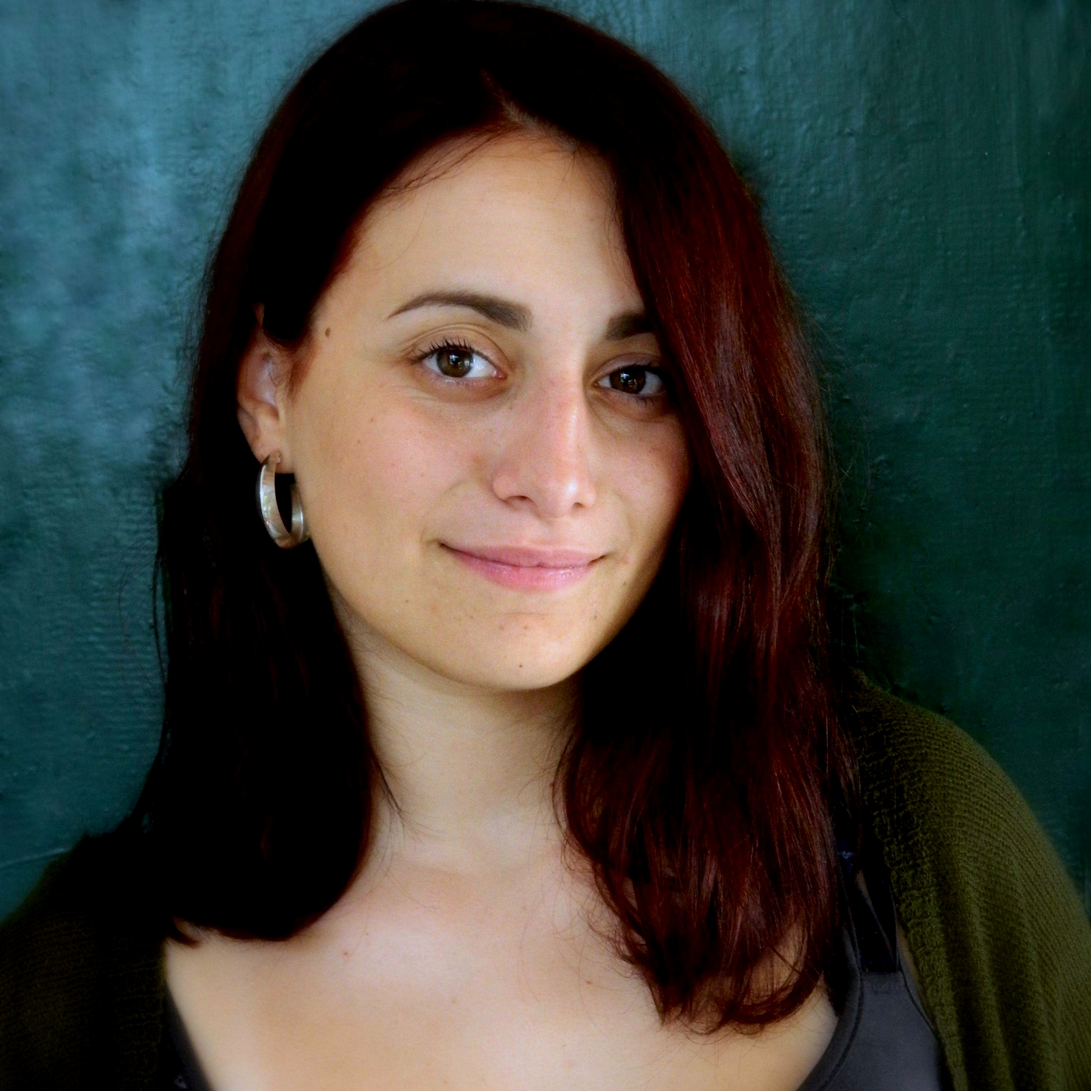
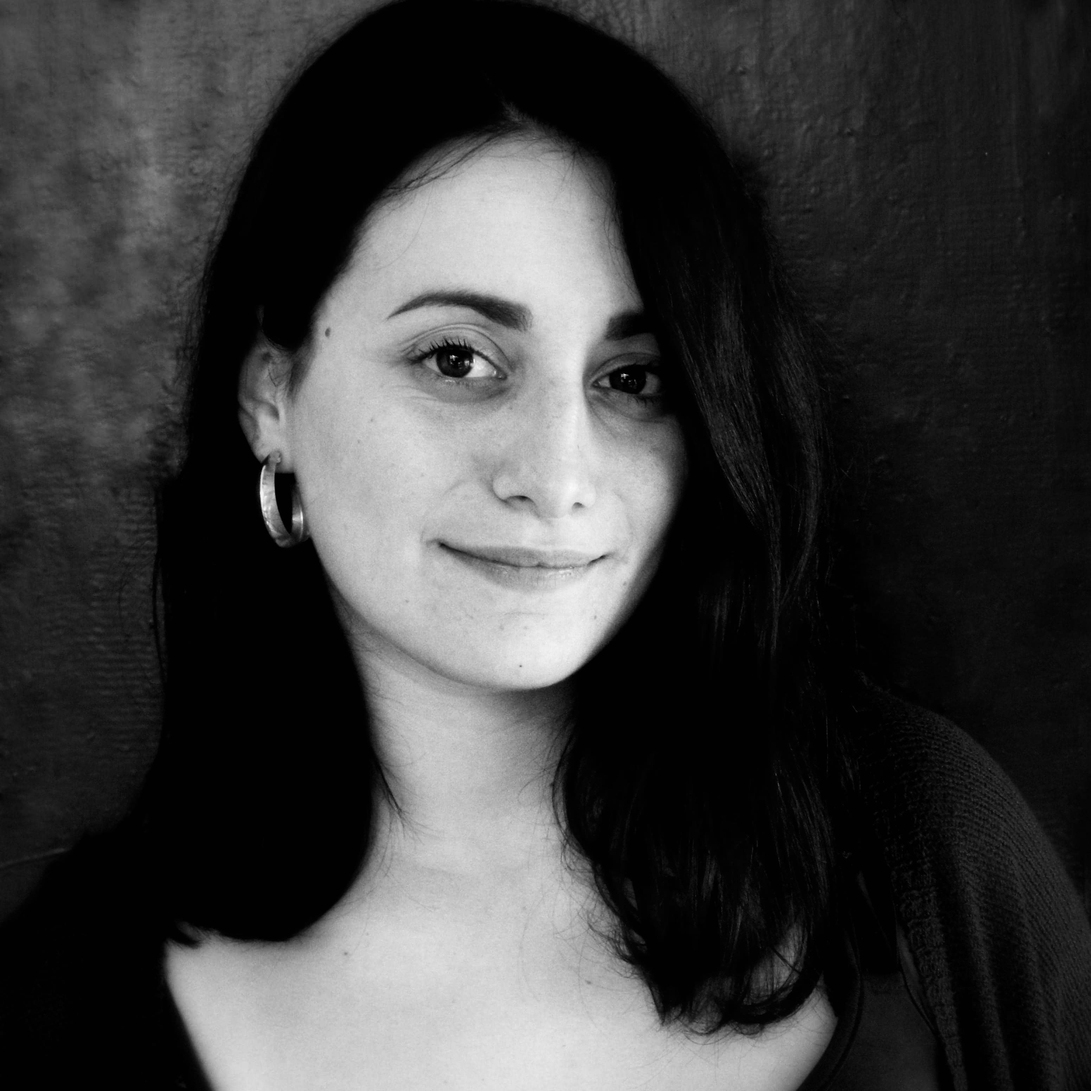
changes

diff --git a/project/annotate/index.html b/project/annotate/index.html
@@ -545,7 +545,7 @@ How can we prime humans to think of meaning mismatches that appear at a small gr
   <div class="media author-card" itemscope itemtype="http://schema.org/Person">
     
       
-      <img class="portrait mr-3" src="/authors/admin/avatar_hu30e804cf04a5c8c8df721ffd132d1d12_1583289_250x250_fill_q100_lanczos_center.jpg" itemprop="image" alt="Avatar">
+      <img class="portrait mr-3" src="/authors/admin/avatar_huf362685d3f85fc0421472c8ac9c0f119_444739_250x250_fill_q100_lanczos_center.jpg" itemprop="image" alt="Avatar">
     
 
     <div class="media-body">

diff --git a/project/detect/index.html b/project/detect/index.html
@@ -546,7 +546,7 @@ How can we draw on linguistics and translation theories studies to account for g
   <div class="media author-card" itemscope itemtype="http://schema.org/Person">
     
       
-      <img class="portrait mr-3" src="/authors/admin/avatar_hu30e804cf04a5c8c8df721ffd132d1d12_1583289_250x250_fill_q100_lanczos_center.jpg" itemprop="image" alt="Avatar">
+      <img class="portrait mr-3" src="/authors/admin/avatar_huf362685d3f85fc0421472c8ac9c0f119_444739_250x250_fill_q100_lanczos_center.jpg" itemprop="image" alt="Avatar">
     
 
     <div class="media-body">

diff --git a/project/refine/index.html b/project/refine/index.html
@@ -548,7 +548,7 @@ Can we do better? How can we improve machine translation by refining its data?</
   <div class="media author-card" itemscope itemtype="http://schema.org/Person">
     
       
-      <img class="portrait mr-3" src="/authors/admin/avatar_hu30e804cf04a5c8c8df721ffd132d1d12_1583289_250x250_fill_q100_lanczos_center.jpg" itemprop="image" alt="Avatar">
+      <img class="portrait mr-3" src="/authors/admin/avatar_huf362685d3f85fc0421472c8ac9c0f119_444739_250x250_fill_q100_lanczos_center.jpg" itemprop="image" alt="Avatar">
     
 
     <div class="media-body">

diff --git a/project/evaluate/index.html b/project/evaluate/index.html
@@ -548,7 +548,7 @@ How can we evaluate natural language generation when moving multilingual?</p>
   <div class="media author-card" itemscope itemtype="http://schema.org/Person">
     
       
-      <img class="portrait mr-3" src="/authors/admin/avatar_hu30e804cf04a5c8c8df721ffd132d1d12_1583289_250x250_fill_q100_lanczos_center.jpg" itemprop="image" alt="Avatar">
+      <img class="portrait mr-3" src="/authors/admin/avatar_huf362685d3f85fc0421472c8ac9c0f119_444739_250x250_fill_q100_lanczos_center.jpg" itemprop="image" alt="Avatar">
     
 
     <div class="media-body">

diff --git a/project/analyze/index.html b/project/analyze/index.html
@@ -549,7 +549,7 @@ How can we calibrate our assumptions to model parallel texts better?</p>
   <div class="media author-card" itemscope itemtype="http://schema.org/Person">
     
       
-      <img class="portrait mr-3" src="/authors/admin/avatar_hu30e804cf04a5c8c8df721ffd132d1d12_1583289_250x250_fill_q100_lanczos_center.jpg" itemprop="image" alt="Avatar">
+      <img class="portrait mr-3" src="/authors/admin/avatar_huf362685d3f85fc0421472c8ac9c0f119_444739_250x250_fill_q100_lanczos_center.jpg" itemprop="image" alt="Avatar">
     
 
     <div class="media-body">

diff --git a/project/xformal/index.html b/project/xformal/index.html
@@ -546,7 +546,7 @@ How well can we perform style transfer beyond English?</p>
   <div class="media author-card" itemscope itemtype="http://schema.org/Person">
     
       
-      <img class="portrait mr-3" src="/authors/admin/avatar_hu30e804cf04a5c8c8df721ffd132d1d12_1583289_250x250_fill_q100_lanczos_center.jpg" itemprop="image" alt="Avatar">
+      <img class="portrait mr-3" src="/authors/admin/avatar_huf362685d3f85fc0421472c8ac9c0f119_444739_250x250_fill_q100_lanczos_center.jpg" itemprop="image" alt="Avatar">
     
 
     <div class="media-body">

diff --git a/post/refresd/index.html b/post/refresd/index.html
@@ -648,7 +648,7 @@ Weijia Xu. Thanks all!</p>
   <div class="media author-card" itemscope itemtype="http://schema.org/Person">
     
       
-      <img class="portrait mr-3" src="/authors/admin/avatar_hu30e804cf04a5c8c8df721ffd132d1d12_1583289_250x250_fill_q100_lanczos_center.jpg" itemprop="image" alt="Avatar">
+      <img class="portrait mr-3" src="/authors/admin/avatar_huf362685d3f85fc0421472c8ac9c0f119_444739_250x250_fill_q100_lanczos_center.jpg" itemprop="image" alt="Avatar">
     
 
     <div class="media-body">

diff --git a/post/mturk/index.html b/post/mturk/index.html
@@ -952,7 +952,7 @@
   <div class="media author-card" itemscope itemtype="http://schema.org/Person">
     
       
-      <img class="portrait mr-3" src="/authors/admin/avatar_hu30e804cf04a5c8c8df721ffd132d1d12_1583289_250x250_fill_q100_lanczos_center.jpg" itemprop="image" alt="Avatar">
+      <img class="portrait mr-3" src="/authors/admin/avatar_huf362685d3f85fc0421472c8ac9c0f119_444739_250x250_fill_q100_lanczos_center.jpg" itemprop="image" alt="Avatar">
     
 
     <div class="media-body">

diff --git a/publication/a/index.html b/publication/a/index.html
@@ -732,7 +732,7 @@
   <div class="media author-card" itemscope itemtype="http://schema.org/Person">
     
       
-      <img class="portrait mr-3" src="/authors/admin/avatar_hu30e804cf04a5c8c8df721ffd132d1d12_1583289_250x250_fill_q100_lanczos_center.jpg" itemprop="image" alt="Avatar">
+      <img class="portrait mr-3" src="/authors/admin/avatar_huf362685d3f85fc0421472c8ac9c0f119_444739_250x250_fill_q100_lanczos_center.jpg" itemprop="image" alt="Avatar">
     
 
     <div class="media-body">

diff --git a/publication/b/index.html b/publication/b/index.html
@@ -676,7 +676,7 @@
   <div class="media author-card" itemscope itemtype="http://schema.org/Person">
     
       
-      <img class="portrait mr-3" src="/authors/admin/avatar_hu30e804cf04a5c8c8df721ffd132d1d12_1583289_250x250_fill_q100_lanczos_center.jpg" itemprop="image" alt="Avatar">
+      <img class="portrait mr-3" src="/authors/admin/avatar_huf362685d3f85fc0421472c8ac9c0f119_444739_250x250_fill_q100_lanczos_center.jpg" itemprop="image" alt="Avatar">
     
 
     <div class="media-body">

diff --git a/publication/c/index.html b/publication/c/index.html
@@ -708,7 +708,7 @@
   <div class="media author-card" itemscope itemtype="http://schema.org/Person">
     
       
-      <img class="portrait mr-3" src="/authors/admin/avatar_hu30e804cf04a5c8c8df721ffd132d1d12_1583289_250x250_fill_q100_lanczos_center.jpg" itemprop="image" alt="Avatar">
+      <img class="portrait mr-3" src="/authors/admin/avatar_huf362685d3f85fc0421472c8ac9c0f119_444739_250x250_fill_q100_lanczos_center.jpg" itemprop="image" alt="Avatar">
     
 
     <div class="media-body">

diff --git a/publication/e/index.html b/publication/e/index.html
@@ -747,7 +747,7 @@
   <div class="media author-card" itemscope itemtype="http://schema.org/Person">
     
       
-      <img class="portrait mr-3" src="/authors/admin/avatar_hu30e804cf04a5c8c8df721ffd132d1d12_1583289_250x250_fill_q100_lanczos_center.jpg" itemprop="image" alt="Avatar">
+      <img class="portrait mr-3" src="/authors/admin/avatar_huf362685d3f85fc0421472c8ac9c0f119_444739_250x250_fill_q100_lanczos_center.jpg" itemprop="image" alt="Avatar">
     
 
     <div class="media-body">
